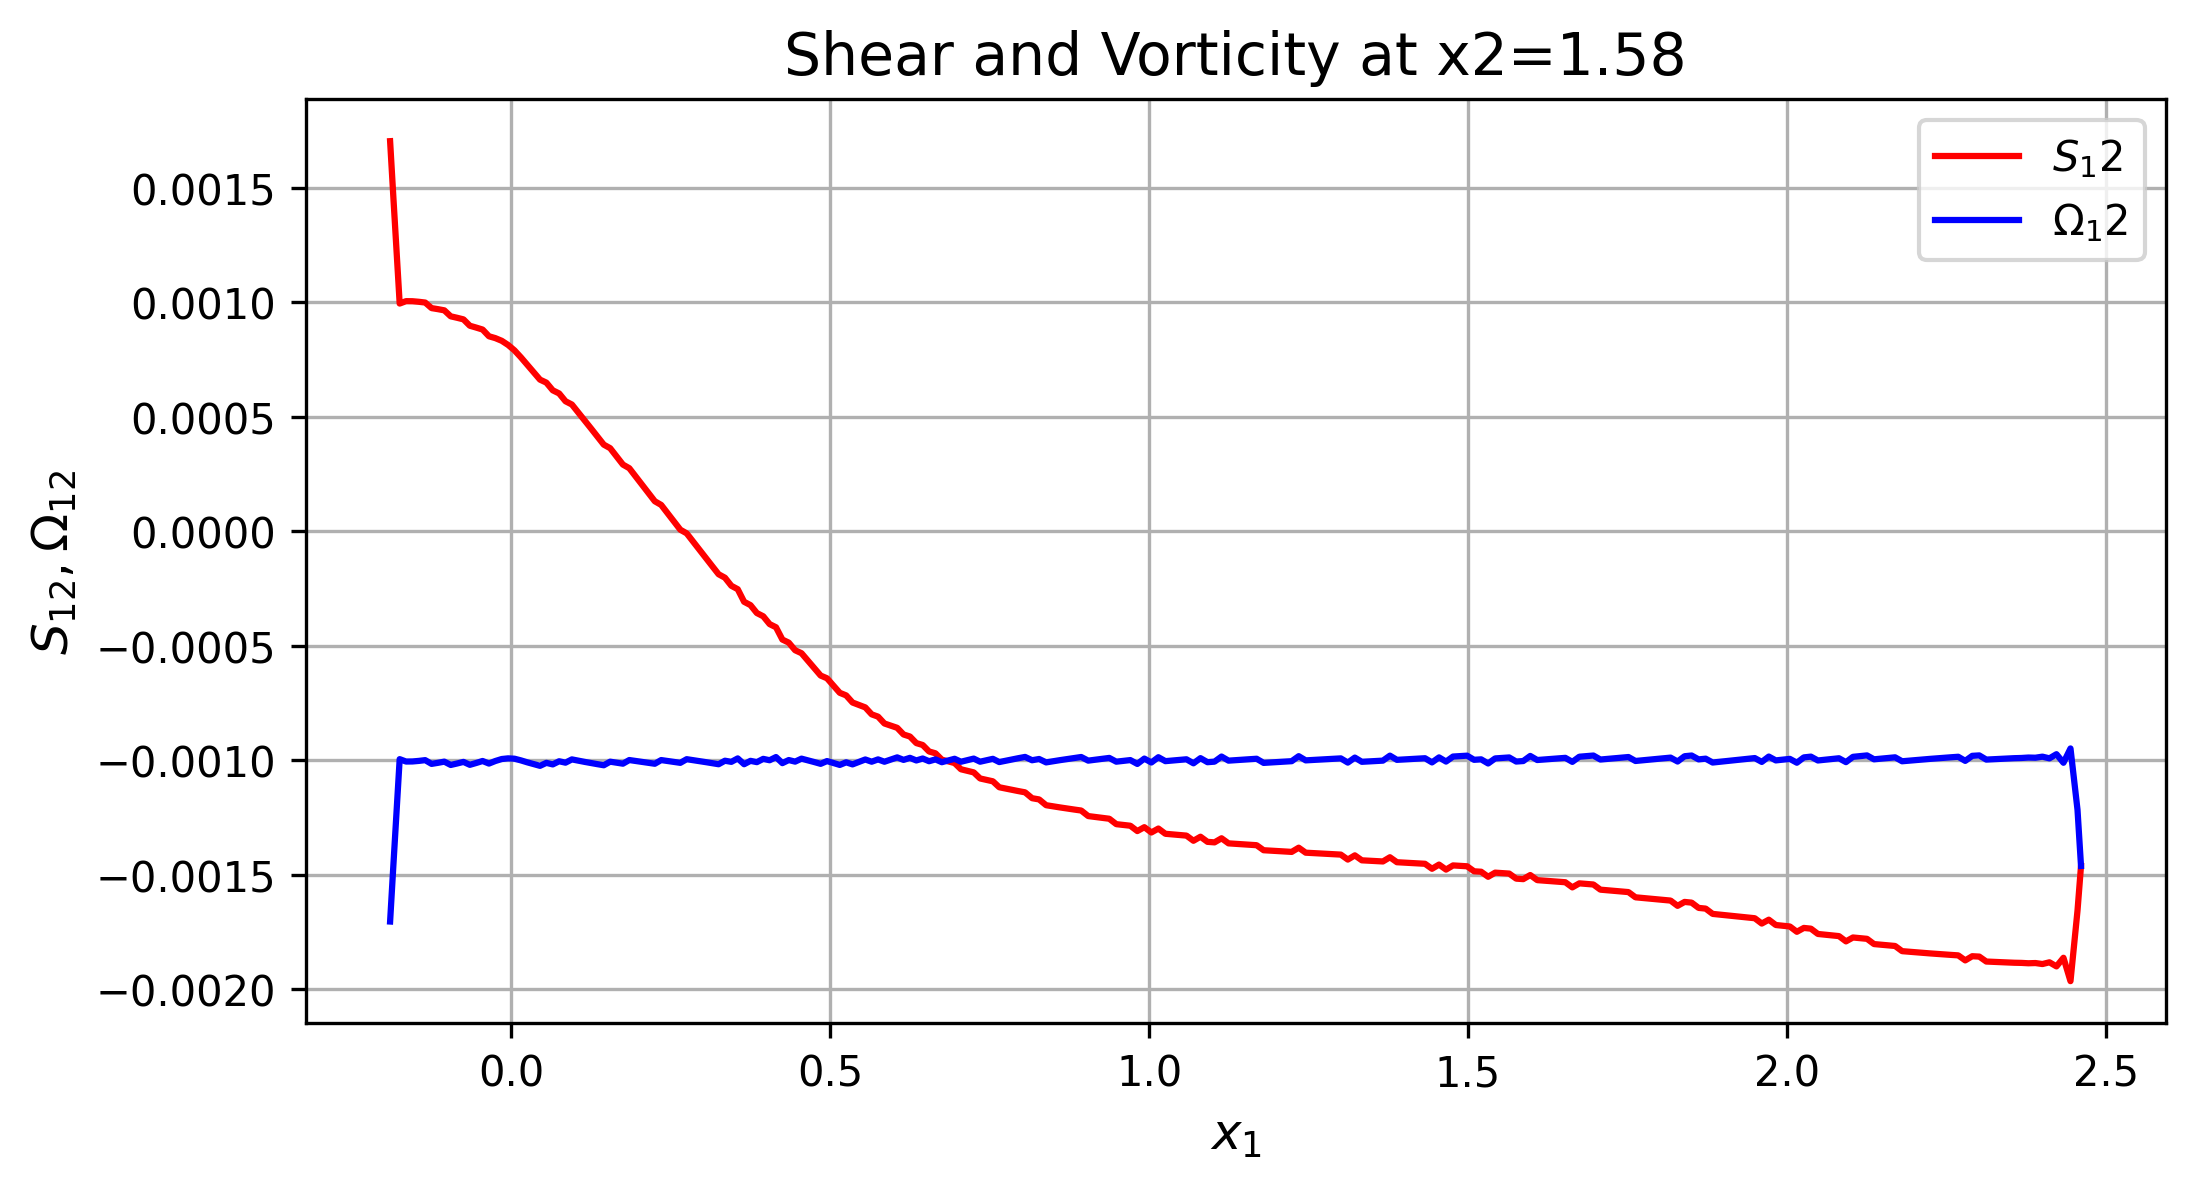
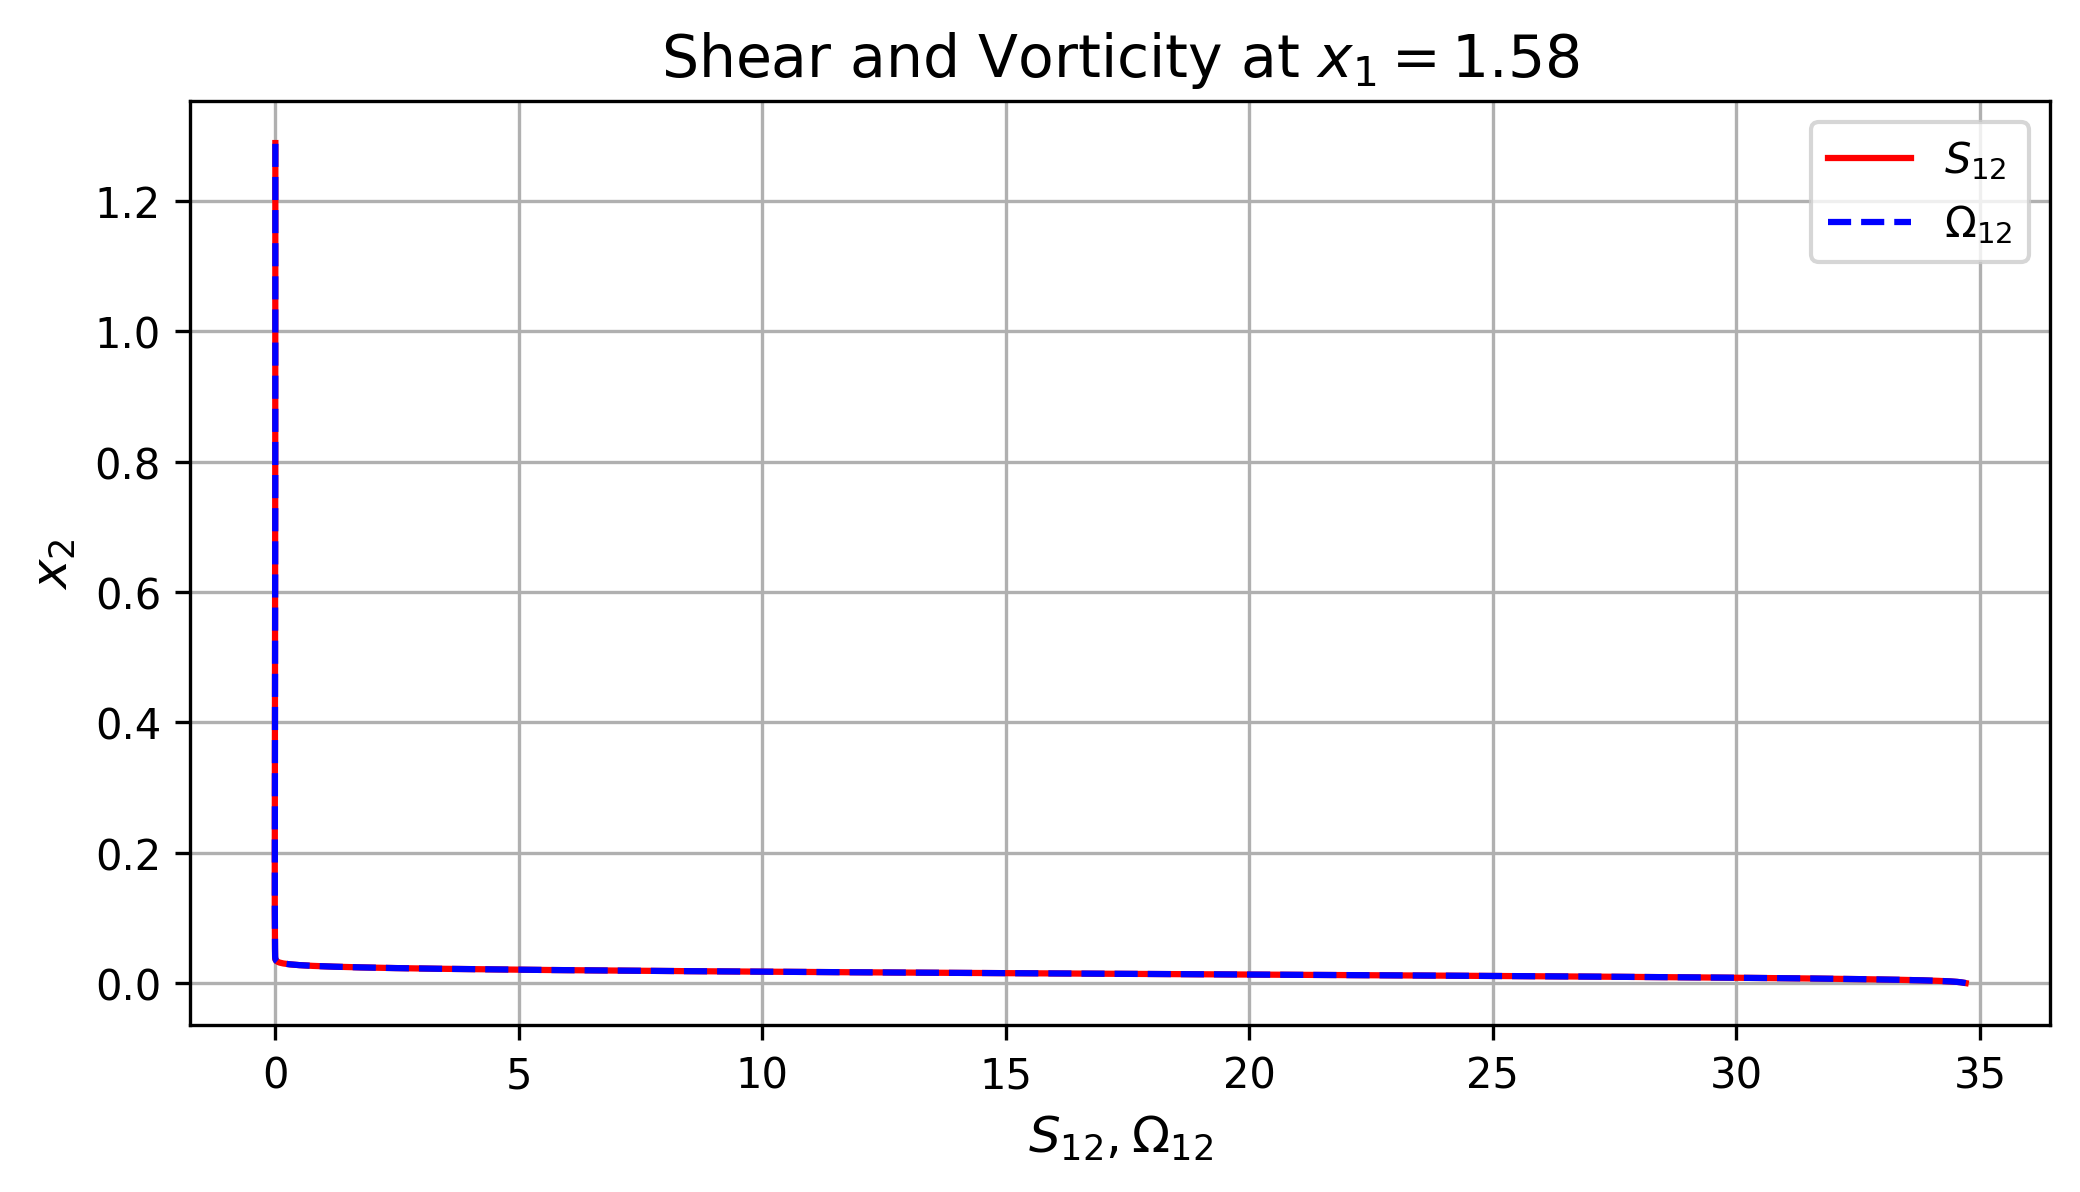
.

diff --git a/TME226/A1 (TME226) - Martin.py b/TME226/A1 (TME226) - Martin.py
@@ -598,15 +598,24 @@ Omega12 = 0.5 * (dudy - dvdx)
 print(S12)
 print(Omega12)
 
+max_i = np.unravel_index(np.argmax(S12, axis=None), S12.shape)[0]
+
+print('i =', max_i, 'Max S12 at i =', np.max(S12))
+
+max_i = np.unravel_index(np.argmax(Omega12, axis=None), Omega12.shape)[0]
+
+print('i =', max_i, 'Max omega12 at i =', np.max(Omega12))
+
 i = 170
 
 plt.figure()
-plt.plot(xp, S12[:,i], 'r-', label='$S_12$')
-plt.plot(xp, Omega12[:,i], 'b-', label=fr'$\Omega_{12}$')
-plt.title('Shear and Vorticity at x2=1.58')
-plt.xlabel('$x_1$')
-plt.ylabel('$S_{12}, \\Omega_{12}$')
+plt.plot(S12[i,:], yp, 'r-', label='$S_{12}$')
+plt.plot(Omega12[i,:], yp, 'b--', label='$\Omega_{12}$')
+plt.title(fr'Shear and Vorticity at $x_1={xc[i]:.2f}$')
+plt.xlabel('$S_{12}, \\Omega_{12}$')
+plt.ylabel('$x_2$')
 plt.legend()
+# plt.axis([-0.1,0.1,0,1.3])
 plt.grid(True)
 plt.savefig('E6_1', dpi=dpi, bbox_inches='tight')
 plt.show()
@@ -614,33 +623,29 @@ plt.show()
 i = 85
 
 plt.figure()
-plt.plot(xp, S12[:,i], 'r-', label='$S_12$')
-plt.plot(xp, Omega12[:,i], 'b-', label=fr'$\Omega_{12}$')
-plt.title('Shear and Vorticity at x2=0.66')
-plt.xlabel('$x_1$')
-plt.ylabel('$S_{12}, \\Omega_{12}$')
+plt.plot(S12[i,:], yp, 'r-', label='$S_{12}$')
+plt.plot(Omega12[i,:], yp, 'b--', label='$\Omega_{12}$')
+plt.title(fr'Shear and Vorticity at $x_1={xc[i]:.2f}$')
+plt.xlabel('$S_{12}, \\Omega_{12}$')
+plt.ylabel('$x_2$')
 plt.legend()
 plt.grid(True)
+# plt.axis([-0.1,0.1,0,1.3])
 plt.savefig('E6_2', dpi=dpi, bbox_inches='tight')
 plt.show()
 
-i = 50
+i = 5
 
 plt.figure()
-plt.plot(xp, S12[:,i], 'r-', label='$S_12$')
-plt.plot(xp, Omega12[:,i], 'b-', label=fr'$\Omega_{12}$')
-plt.title('Shear and Vorticity at x2=0.66')
-plt.xlabel('$x_1$')
-plt.ylabel('$S_{12}, \\Omega_{12}$')
+plt.plot(S12[i,:], yp, 'r-', label='$S_{12}$')
+plt.plot(Omega12[i,:], yp, 'b--', label='$\Omega_{12}$')
+plt.title(fr'Shear and Vorticity at $x_1={xc[i]:.2f}$')
+plt.xlabel('$S_{12}, \\Omega_{12}$')
+plt.ylabel('$x_2$')
 plt.legend()
 plt.grid(True)
 plt.savefig('E6_3', dpi=dpi, bbox_inches='tight')
 plt.show()
-
-# X2 (y) value is incorrect, need to be calculated based on given height and amount of elements.
-
-# Change axels, meaning x on y axis, and then plot for x1 coordinates, meaning x1=i for example.
-
 
 # %%
 ##################################################
